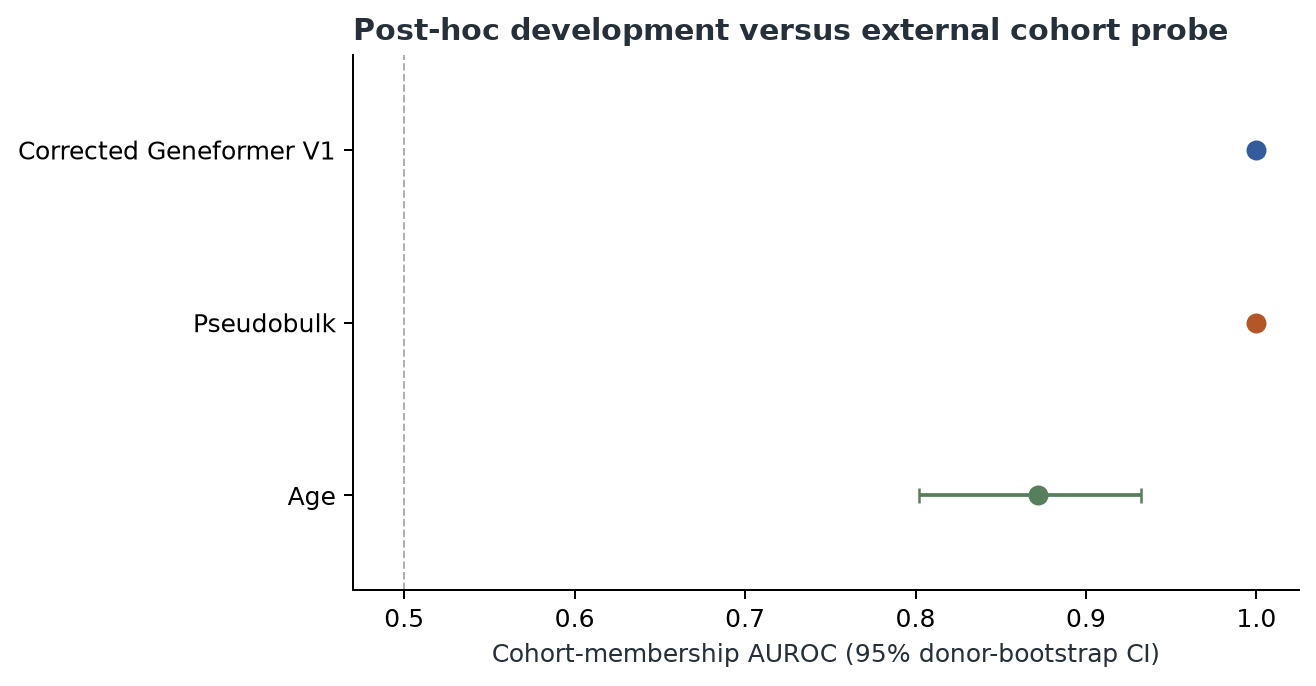
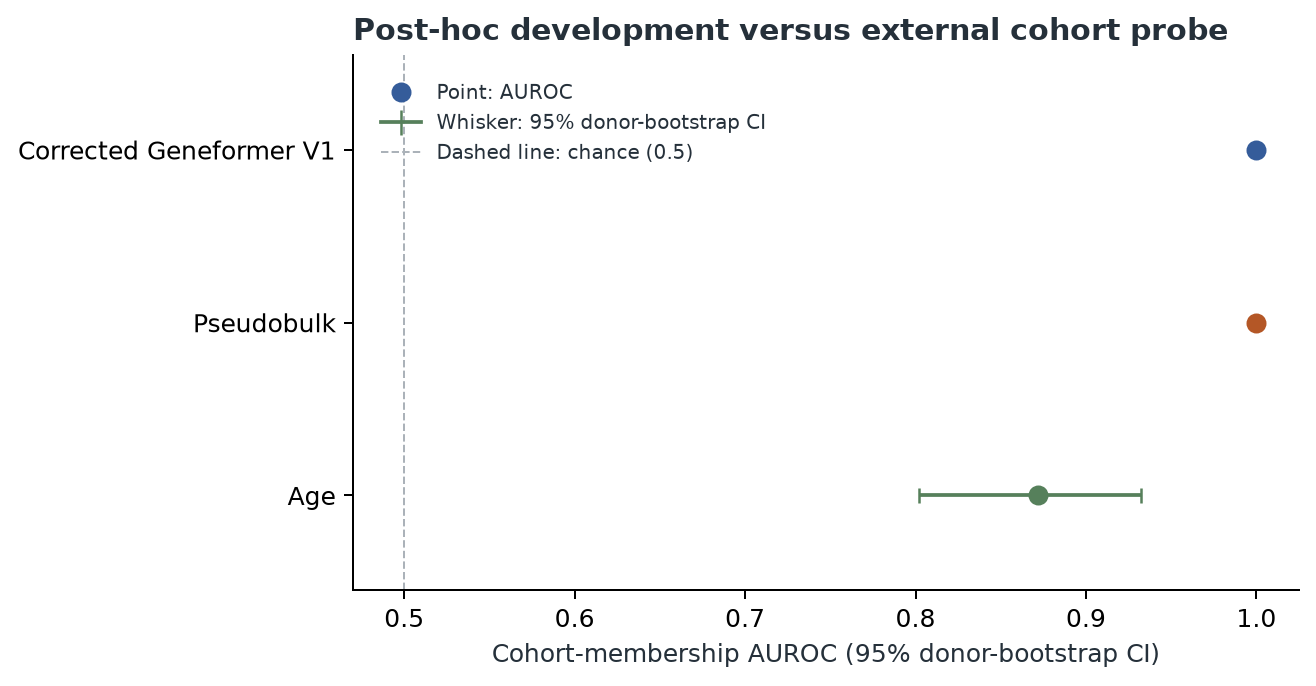
Add Figure 4 legend and correction implementation report

Changed region(s): [[0.2804, 0.1224, 0.5919, 0.2449]]

diff --git a/scripts/32_corrected_figures.py b/scripts/32_corrected_figures.py
@@ -8,6 +8,7 @@ from pathlib import Path
 import matplotlib
 matplotlib.use("Agg")
 import matplotlib.pyplot as plt
+from matplotlib.lines import Line2D
 import numpy as np
 import pandas as pd
 
@@ -112,6 +113,16 @@ def figure4(probe, historical):
         ax.errorbar(v, 2-i, xerr=[[max(0, v-lo)], [max(0, hi-v)]], fmt="o",
                     color=COLORS[arm], capsize=3, lw=1.5, markersize=7)
     ax.axvline(.5, color="#abb2b9", ls="--", lw=.8)
+    legend_handles = [
+        Line2D([0], [0], marker="o", color="#355c9a", linestyle="none",
+               markersize=7, label="Point: AUROC"),
+        Line2D([0], [0], marker="|", color="#56805b", linestyle="-",
+               markersize=10, lw=1.5, label="Whisker: 95% donor-bootstrap CI"),
+        Line2D([0], [0], color="#abb2b9", linestyle="--", lw=.8,
+               label="Dashed line: chance (0.5)"),
+    ]
+    ax.legend(handles=legend_handles, loc="upper left", bbox_to_anchor=(.01, .98),
+              frameon=False, fontsize=8)
     ax.set(xlim=(.47, 1.025), ylim=(-.55, 2.55), yticks=[0, 1, 2],
            yticklabels=["Age", "Pseudobulk", "Corrected Geneformer V1"],
            xlabel="Cohort-membership AUROC (95% donor-bootstrap CI)")

diff --git a/scripts/36_write_correction_manifest.py b/scripts/36_write_correction_manifest.py
@@ -59,6 +59,7 @@ def main():
         "historical_release_commit": "6158a840",
         "repository_results": [record(p, ROOT) for p in result_files],
         "repository_figures": [record(p, ROOT) for p in figures],
+        "repository_report": record(ROOT / "docs/correction_2026-09_implementation_report.md", ROOT),
         "paper_documents": [record(p, PAPER) for p in documents],
         "original_kaggle_zips_outside_git": [record(p, PAPER) for p in zips],
     }

diff --git a/docs/correction_2026-09_implementation_report.md b/docs/correction_2026-09_implementation_report.md
@@ -1,0 +1,93 @@
+# Lupus paper scientific correction: implementation report
+
+**Report date:** 30 September 2026  
+**Repository:** [mohamad679/lupus-singlecell-foundation](https://github.com/mohamad679/lupus-singlecell-foundation)  
+**Correction branch:** `scientific-correction-2026`  
+**Review vehicle:** [draft pull request #58](https://github.com/mohamad679/lupus-singlecell-foundation/pull/58)  
+**Historical release preserved at:** `6158a8409064ae8c7a608126cc2d7a7e65b02506`
+
+This report describes work performed under the five-phase correction plan, from the initial review through the corrected paper package. It distinguishes completed work from remaining scientific and submission tasks. The external GSE135779 cohort had already been examined, so all new analyses on it are **corrected reanalyses**, not independent confirmation.
+
+## 1. Starting point and initial plan
+
+The reviewed manuscript and supplement made Geneformer V1 performance and two Geneformer-superiority comparisons central to the paper. The review identified an unvalidated Geneformer V1 extraction path, an inference mismatch in the historical label-shuffle p values, differences in gene spaces between development and external analysis, and reporting gaps. The response was a focused, two-cohort validation paper, with the historical release retained and corrected outputs written separately. The agreed phases were: (1) preservation and traceability, (2) corrected V1 extraction, (3) repaired inference and essential analyses, (4) revised paper and figures, and (5) reproducibility and reporting checks. A new untouched cohort and broader encoder benchmark were explicitly deferred.
+
+Work began by preserving commit `6158a840` and creating versioned correction code and documents on a separate branch. The first correction commit was `53fecda` (“Prepare versioned lupus scientific correction and provisional paper drafts”); subsequent commits document each repair and validated artifact. The original `FREEZE.json`, `SEALED_OPENED.json`, preregistration, historical `results/l2_*` files, and original Kaggle kernels were kept as historical records. Nine frozen file hashes were checked against the historical checkout. The [scientific correction ledger](https://github.com/mohamad679/lupus-singlecell-foundation/blob/scientific-correction-2026/docs/SCIENTIFIC_CORRECTION_2026-09.md) maps original claims to artifacts and states which original results could be reproduced, which were scientifically provisional, and what had to be regenerated.
+
+## 2. Phase 1 — preserve and trace the original analysis
+
+The historical Geneformer development AUROC was 0.9676 and external AUROC was 0.8156. Those values reproduce from released vectors, but that only verifies the saved vector-to-score calculation. The original development and external kernels selected a V1 checkpoint while requesting `emb_mode="cls"` and omitting explicit `model_version="V1"`; the original first-run checkpoint bytes, exact upstream package revision, and first-run probability vectors were not recovered. The released historical p values came from label permutations and test an above-chance null, not equality of paired AUROCs. They remain visible as historical results; they are not the corrected co-primary tests.
+
+The pseudobulk comparison uses a 30,165-gene shared space for external scoring. The original development cross-validation used a different full-gene feature space; this was disclosed. The reported restriction effect and the restricted arm's above-chance p value were separated because they answer different questions. The public external deposit contains 56 usable samples, rather than the 58 described in older materials. Two development donors with ambiguous age are excluded only from the age-only arm. Other original protocol deviations remain documented in the [preregistration deviations record](https://github.com/mohamad679/lupus-singlecell-foundation/blob/scientific-correction-2026/docs/PREREGISTRATION_DEVIATIONS.md).
+
+## 3. Phase 2 — correct V1 extraction and validate four Kaggle runs
+
+New versioned development and external extraction runners were built; original runners were preserved. The corrected path pins Geneformer revision `04c2b2e84da7c0f385c3f9ad8f3ec24bab6650e5`, explicitly uses `model_version="V1"`, `model_input_size=2048`, `emb_mode="cell"`, and `emb_layer=-1`, and pools valid cell embeddings to 256-dimensional donor vectors. The **shared 30,165-gene input** is the main analysis; model-native input is a labeled sensitivity analysis. A synthetic eight-cell fixture checks tokenizer and extractor compatibility, selected gene-token mappings, special-token/length bounds, finite embeddings, and repeated tokenization after GPU extraction. Full runs check donor keys, exact cell accounting, finite vectors, hashes, and runtime provenance.
+
+Four self-contained Kaggle notebooks were supplied in `kaggle_notebooks/`: `CBC_Kaggle_1_Development_Shared.ipynb`, `CBC_Kaggle_2_External_Shared.ipynb`, `CBC_Kaggle_3_Development_Native.ipynb`, and `CBC_Kaggle_4_External_Native.ipynb`. The notebooks stage checksum-verified code, install/verify pinned dependencies, run the fixture, process one cohort/mode, and export a share ZIP. Resumable batches have checksum-checked checkpoints. The complete execution instructions are in the [correction runbook](https://github.com/mohamad679/lupus-singlecell-foundation/blob/scientific-correction-2026/docs/CORRECTION_RUNBOOK.md).
+
+The Kaggle implementation required several repairs before a valid full run:
+
+1. Mixed in-process NumPy installation caused `_center` import errors, although a fresh Python process passed imports. Setup and jobs were changed to use and test a fresh process.
+2. Three downloaded V1 dictionary files were Git LFS pointer text, producing `UnpicklingError: invalid load key, 'v'`. The notebooks now fetch exact dictionary bytes from the pinned revision, reject pointers, unpickle and validate them, and record hashes. Verified entry counts were 25,424 medians, 25,426 tokens, and 25,424 mappings.
+3. `cellxgene_census` import exposed an `aiobotocore`/`botocore` incompatibility. Compatible `aiobotocore`, `boto3`, `botocore`, and `s3transfer` versions were pinned and the whole import path checked before the fixture.
+4. The first real development/shared run finished a 158,835-cell batch, then Datasets/TBB failed after forking from a non-main thread. A resume patch initially rejected an unknown source hash as designed. The accepted source-hash list was corrected only after matching the staged source and checkpoint metadata. Tokenizer `nproc=1` still forked a worker, so the final runners use `nproc=None`; the fixture exercises the previous failure sequence. Existing checked checkpoints were reused only after source, mode, donor, cell-count, and parquet checks.
+
+All four user-provided Kaggle share ZIPs were then ingested with `scripts/35_ingest_corrected_kaggle_zip.py`. The ingestion checks archive/member hashes, fixture success, cohort counts, unique donor/sample keys, finite 256-dimensional embeddings, and no missing rows. Development contained **261 donors and 1,263,676 cells**; external contained **56 samples and 363,083 cells**. Both modes matched the expected accounting. The original ZIPs remain outside Git in `correction_artifacts/`; validated parquet files, run summaries, and ingestion reports are versioned under `results/correction_2026-09/{shared,native}_features/`. The summaries record model/checkpoint/dictionary hashes, Geneformer revision, parameters, and runtime package lists.
+
+## 4. Phase 3 — scoring, paired inference, and supporting analyses
+
+`scripts/28_corrected_geneformer_scoring.py` reran donor-level development cross-validation and a final development fit from the corrected embeddings, then produced fixed external probabilities. It validates source hashes, checkpoint consistency, donor/label pairing, finite dimensions and probabilities, and expected input mode. `scripts/27_correction_analysis.py` applies paired DeLong equal-AUROC tests, 5,000 paired donor-bootstrap draws for difference intervals, and Holm adjustment across the two co-primary comparisons. The original superiority rule remains visible: both the corrected p value and the signed interval must support a positive Geneformer advantage.
+
+| Corrected main result | Value | Source |
+|---|---:|---|
+| Geneformer V1 development AUROC | 0.9746 (95% CI 0.9548–0.9901) | `corrected_v1_descriptive.json` |
+| Geneformer V1 external AUROC | 0.7344 (0.6017–0.8597) | `corrected_v1_descriptive.json` |
+| Pseudobulk external AUROC | 0.8984 | `corrected_v1_shared_analysis.json` |
+| Age-only external AUROC | 0.5781 | `corrected_v1_shared_analysis.json` |
+| Geneformer minus age external AUROC | +0.1563 (paired CI −0.0859 to +0.4040); Holm p=0.2046 | `corrected_v1_shared_analysis.json` |
+| Geneformer minus pseudobulk external AUROC | −0.1641 (paired CI −0.2916 to −0.0384); Holm p=0.0175 | `corrected_v1_shared_analysis.json` |
+
+**Neither prespecified Geneformer-superiority criterion was met.** The second comparison provides evidence of a difference in the pseudobulk direction under the specified paired analysis; it does not prove general model inferiority across datasets or tasks. The external test comprises 40 cases and 16 controls. Confidence intervals condition on fixed predictions and do not include complete retraining or extraction uncertainty.
+
+The model-native Geneformer sensitivity run gave external AUROC **0.7484**. Native minus shared was **+0.0141** (paired CI −0.0238 to +0.0597; paired DeLong p=0.4601). It is an exploratory analysis of the same examined external samples. `scripts/29_gene_input_sensitivity.py` verifies donor alignment and comparator identity before computing it.
+
+The additional analyses include donor/cell accounting; the 30,165 shared genes and 490 development-zero genes expressed externally; AUROC by source-defined Children (44 samples) and Adult (12 samples) groups; average precision, Brier scores, a constant development-prevalence probability comparator, and diagnostic calibration. External Geneformer Brier score was 0.4713 versus 0.2128 for the constant comparator. The corrected Geneformer cohort-origin probe gave AUROC **0.9999** (95% CI 0.9996–1.0000); it is a post-hoc diagnostic of cohort separability, not a disease-prediction result or proof of a particular causal batch effect. These outputs are in `corrected_v1_descriptive.json`, `corrected_v1_shared_cohort_probe.json`, `historical_gene_availability.json`, and the analysis files.
+
+## 5. Phase 4 — paper and figure revision
+
+Five revised Word documents were built in the paper workspace's `corrected_submission_2026-09/` directory: manuscript, supplement, title page, highlights, and cover letter. The manuscript now identifies the work as a corrected reanalysis; defines V1 cell-to-donor feature construction, shared and native gene inputs, cohort accounting, paired uncertainty and correction, calibration, and protocol boundaries; and replaces the original co-primary interpretation. The supplement records supporting methods and results. The title, highlights, and cover letter were aligned with the corrected message. The documents were rendered and visually checked page by page: the manuscript has 13 pages, supplement 2 pages, and each other document 1 page.
+
+`scripts/32_corrected_figures.py` generated four publication-resolution TIFF figures (plus PNG inspection copies): overall corrected AUROCs, source age-group AUROCs, co-primary paired differences, and a cohort-origin probe. **Figure 4 was rechecked after the first ZIP was made.** It had axis and row labels but no in-image legend. A legend now defines the AUROC point, the 95% donor-bootstrap confidence-interval whisker, and the 0.5 chance line. The TIFF/PNG were regenerated and visually inspected; the corrected TIFF replaces Figure 4 in the version-2 submission ZIP. The Word caption already describes the plotted intervals and interpretation.
+
+The current downloadable package is `Lupus_Paper_Corrected_2026-09_v2.zip`. It contains the five Word documents, four corrected TIFFs, this Markdown report, and a README. The older `Lupus_Paper_Corrected_2026-09.zip` is superseded because Figure 4 lacked the in-image legend.
+
+## 6. Phase 5 — reproducibility and reporting review
+
+The correction branch contains versioned extraction, ingestion, scoring, analysis, figure, and document scripts; four Kaggle notebooks; pinned local scoring requirements; extracted run summaries with checkpoint and runtime provenance; per-donor probabilities and development out-of-fold predictions; fitted model artifacts; and an SHA-256 artifact manifest at `results/correction_2026-09/corrected_artifact_manifest.json`. The manifest checks the corrected result files, four TIFFs, five Word documents, and four original Kaggle ZIPs. The scoring path rejects mismatched input hashes, missing or duplicate donor keys, inconsistent labels, invalid vectors or probabilities, and conflicting checkpoint provenance. The local pinned scoring run reproduced the shared prediction JSON SHA-256 exactly.
+
+The [author correction audit](https://github.com/mohamad679/lupus-singlecell-foundation/blob/scientific-correction-2026/docs/correction_2026-09_audit.md) and [reporting and bias review](https://github.com/mohamad679/lupus-singlecell-foundation/blob/scientific-correction-2026/docs/REPORTING_AND_BIAS_REVIEW.md) use [TRIPOD+AI](https://www.bmj.com/content/385/bmj-2023-078378) and [PROBAST+AI](https://www.bmj.com/content/388/bmj-2024-082505) as frameworks. Reporting now covers data sources, participants, labels, predictors, model development and external evaluation, uncertainty, calibration, code, and limitations. The author assessment finds high risk for a clinical-use claim and uncertain clinical applicability. A full independent, item-by-item TRIPOD+AI checklist and PROBAST+AI adjudication remain submission tasks. No clinical diagnostic use, prediction threshold, or decision-curve utility was established.
+
+## 7. What is complete, and what remains
+
+The agreed **focused two-cohort correction** is implemented: all four corrected feature runs were validated; predictions, paired inference, sensitivity, essential descriptive analyses, five documents, and four figures were generated; and reproducibility records were saved. Draft PR #58 contains the branch changes. It remains **draft and unmerged**; the repository's `main` branch has not been changed by this correction. The package is a complete revised set for author review, with Figure 4's legend included in version 2.
+
+The paper is not a new confirmatory validation. The following are unresolved or outside the agreed scope: a fresh untouched external cohort; broader encoder comparison; cell-type-resolved validation; independent assessment of model-pretraining overlap; independent full reporting/bias checklist; harmonization of clinical outcome ascertainment and sparse external sex/ancestry metadata; and clinical utility. The public 56-versus-58 sample discrepancy remains documented. These limits should stay in the submitted paper. Final journal formatting, author sign-off, and merger of the draft PR are decisions for the authors.
+
+## 8. File map and verification pointers
+
+| Purpose | Location |
+|---|---|
+| Historical release | Git commit `6158a840` and original `results/l2_*` |
+| Correction ledger | `docs/SCIENTIFIC_CORRECTION_2026-09.md`, `docs/correction_2026-09_audit.md` |
+| Four executable Kaggle notebooks | `kaggle_notebooks/CBC_Kaggle_{1..4}_*.ipynb` |
+| Corrected extraction source | `kaggle_kernels/l2_geneformer_v1_corrected_dev/`, `kaggle_kernels/l2_geneformer_v1_corrected_external/` |
+| Validated features and run summaries | `results/correction_2026-09/shared_features/`, `native_features/` |
+| Predictions and statistics | `results/correction_2026-09/corrected_v1_*.json` |
+| Analysis and figure source | `scripts/27_correction_analysis.py` through `scripts/32_corrected_figures.py` |
+| Four corrected figures | `figures/correction_2026-09/Figure_{1..4}_Corrected.tiff` |
+| Five revised Word documents | Parent paper folder: `corrected_submission_2026-09/` |
+| Hash manifest | `results/correction_2026-09/corrected_artifact_manifest.json` |
+| Reproduction instructions | `docs/CORRECTION_RUNBOOK.md` |
+
+This is a work and provenance record. Source files and versioned result artifacts, rather than rounded numbers in this report, are authoritative for exact numerical reproduction.

diff --git a/docs/CORRECTION_RUNBOOK.md b/docs/CORRECTION_RUNBOOK.md
@@ -5,11 +5,9 @@
 Four self-contained notebooks are in the parent `lupuspaper` folder. Run each
 in a separate Kaggle GPU session with Internet enabled, in this order:
 
-The development/shared, external/shared, and development/native ZIPs have
-passed local validation. Use the uniquely named
-`Lupus_Kaggle_External_Native_Complete.ipynb` copy for the final extraction
-run so Kaggle does not reuse an older notebook upload. It is identical to the
-fourth notebook below.
+All four cohort/mode ZIPs completed and passed local validation. The notebooks
+remain available for an independent rerun. Use the versioned files below rather
+than an older Kaggle upload with a similar name.
 
 1. `CBC_Kaggle_1_Development_Shared.ipynb`
 2. `CBC_Kaggle_2_External_Shared.ipynb`
@@ -46,8 +44,7 @@ files, donor set, cell counts, or parquet checksum. It accepts only explicitly
 listed prior correction-script hashes when every other field matches, allowing
 a completed batch to survive a multiprocessing-only code repair.
 
-After Cell 5, download `lupus_correction_external_native_share.zip` for the
-native-input sensitivity analysis. Rebuild the notebooks with
+After Cell 5, download that run's share ZIP. Rebuild the notebooks with
 `python scripts/33_build_kaggle_notebooks.py --output-dir ..` if their source
 changes.
 
@@ -114,6 +111,6 @@ The notebook can be rebuilt after a script change with
    only. Keep the released historical result table and explain the
    post-hoc correction and already examined external cohort.
 
-The development/shared, external/shared, and development/native jobs were run
-on Kaggle and their ZIPs passed local fixture, provenance, cohort accounting,
-and embedding-table checks. The external/native job remains pending.
+All four Kaggle jobs were run. Their ZIPs passed local fixture, provenance,
+cohort accounting, and embedding-table checks. The corrected scoring and
+analysis outputs are versioned in `results/correction_2026-09/`.
